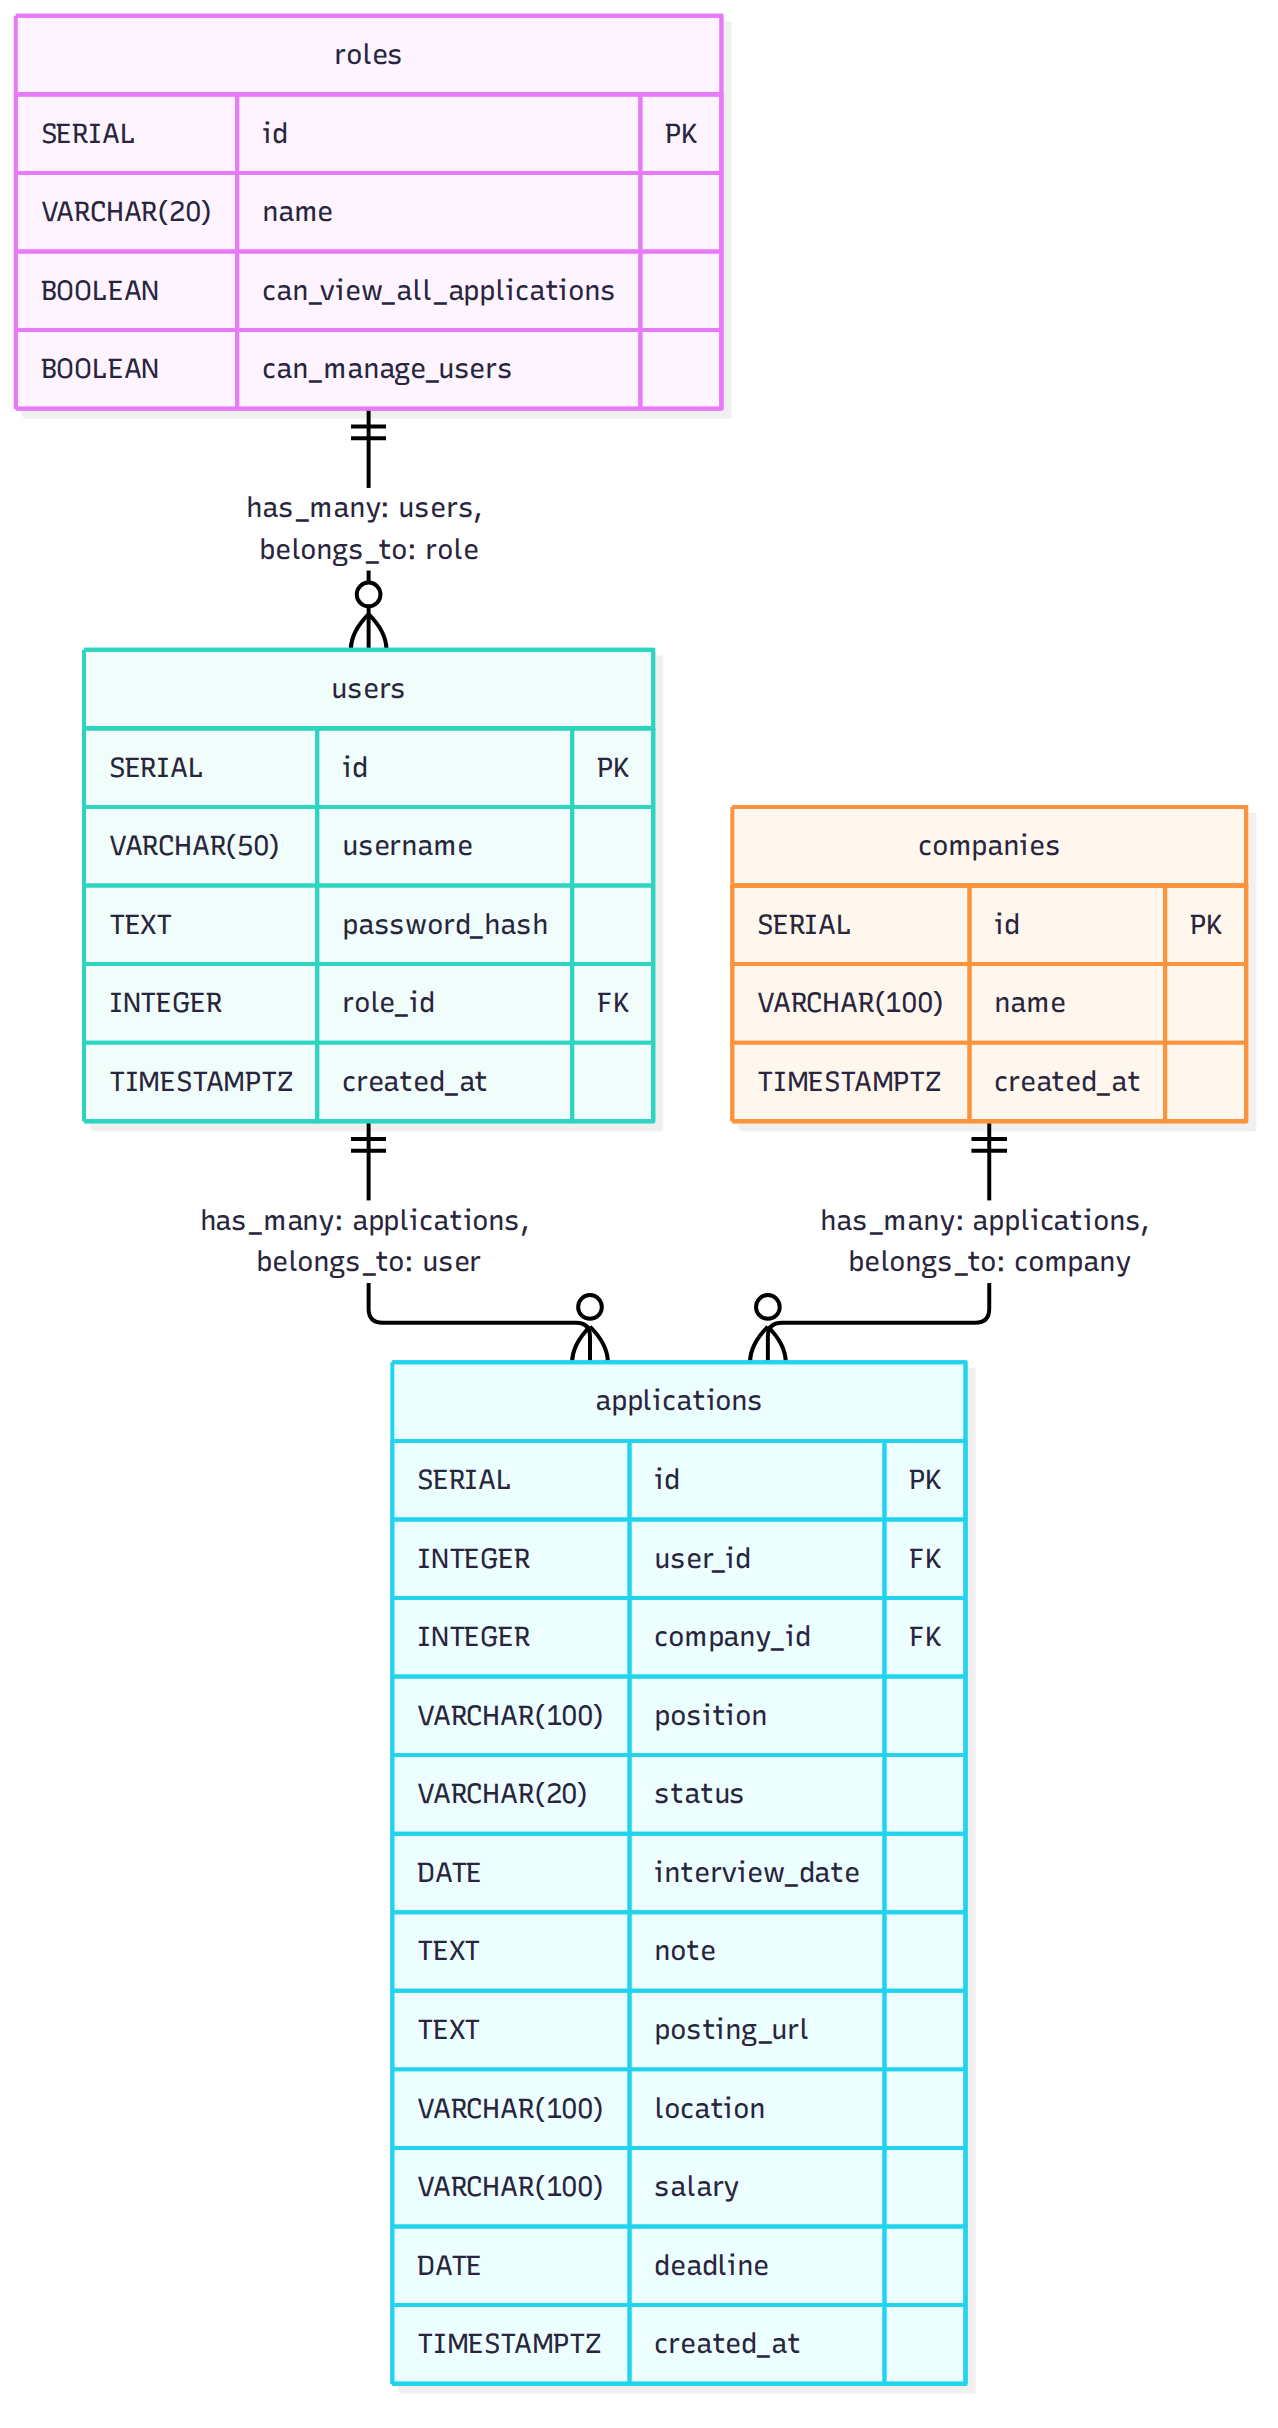
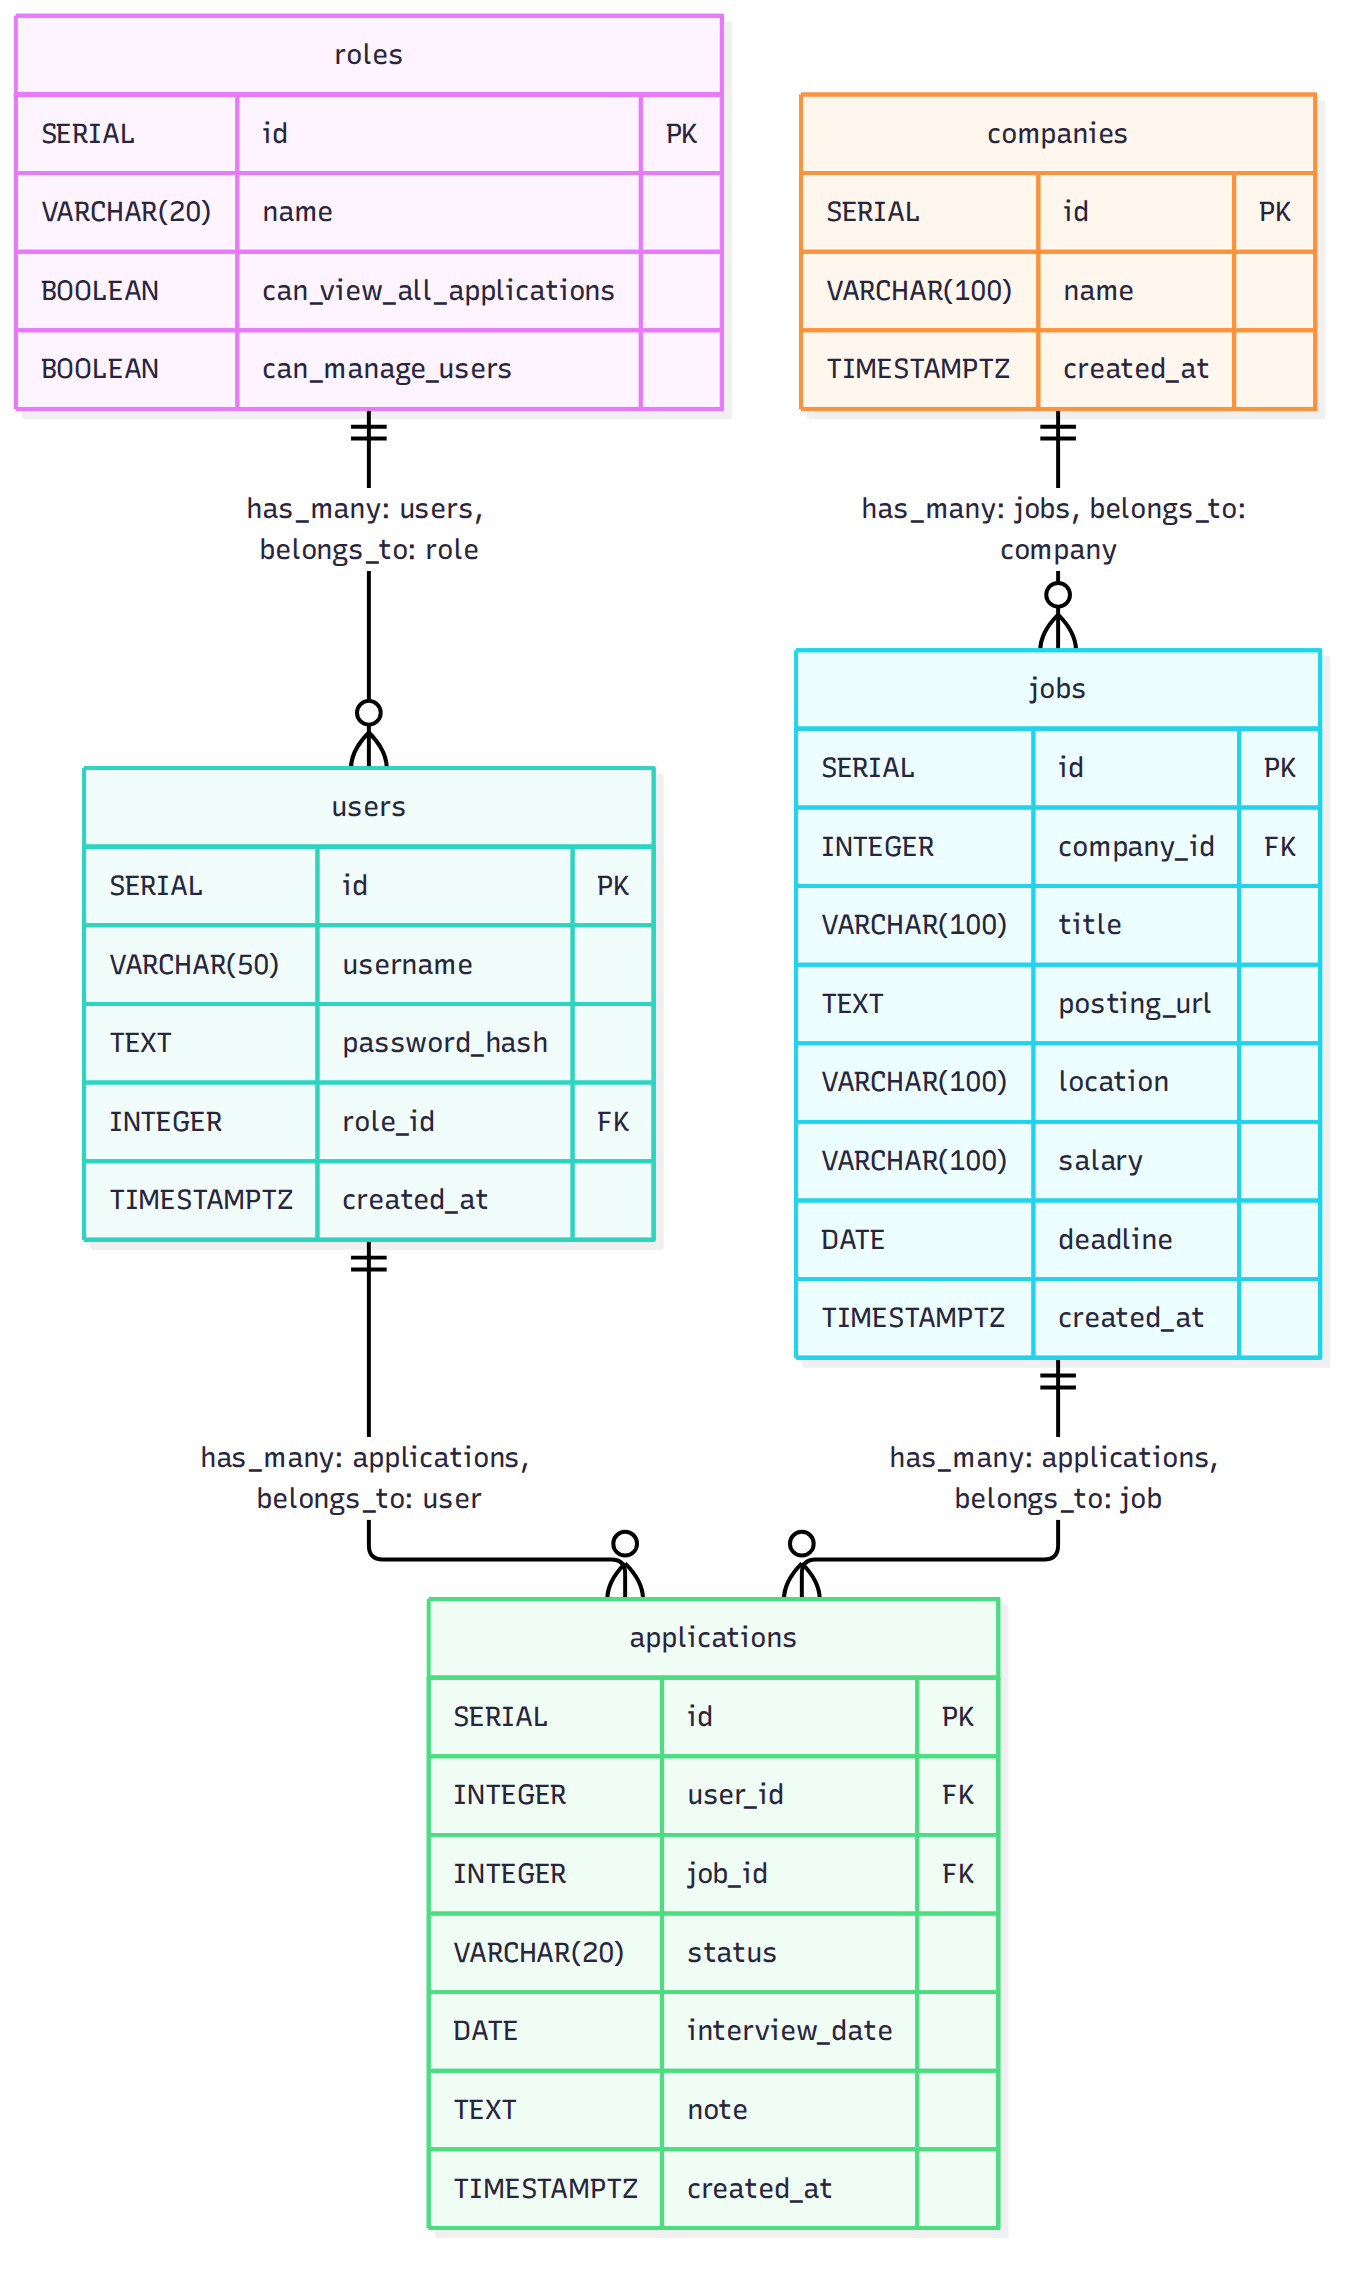
db: split jobs out of applications (m:n via applications), drop stale .js mirrors

Changed region(s): [[0.0, 0.0, 0.9765, 0.9868], [0.6408, 0.2159, 0.6714, 0.2467], [0.1526, 0.6167, 0.1831, 0.6476]]

diff --git a/migrations/20261116130124_001_init.ts b/migrations/20261116130124_001_init.ts
@@ -30,22 +30,31 @@ export const up = async (knex: Knex) => {
     t.timestamp("created_at", { useTz: true }).notNullable().defaultTo(knex.fn.now());
   });
 
-  await knex.schema.createTable("applications", (t) => {
+  await knex.schema.createTable("jobs", (t) => {
     t.increments("id").primary();
-    t.integer("user_id").notNullable().references("id").inTable("users").onDelete("CASCADE");
     t.integer("company_id").notNullable().references("id").inTable("companies");
-    t.string("position", 100).notNullable();
-    t.string("status", 20).notNullable().defaultTo("applied");
-    t.date("interview_date").nullable();
-    t.text("note").nullable();
+    t.string("title", 100).notNullable();
     t.text("posting_url").nullable();
     t.string("location", 100).nullable();
     t.string("salary", 100).nullable();
     t.date("deadline").nullable();
     t.timestamp("created_at", { useTz: true }).notNullable().defaultTo(knex.fn.now());
 
+    t.index(["company_id"], "jobs_company_id_idx");
+  });
+
+  await knex.schema.createTable("applications", (t) => {
+    t.increments("id").primary();
+    t.integer("user_id").notNullable().references("id").inTable("users").onDelete("CASCADE");
+    t.integer("job_id").notNullable().references("id").inTable("jobs").onDelete("CASCADE");
+    t.string("status", 20).notNullable().defaultTo("applied");
+    t.date("interview_date").nullable();
+    t.text("note").nullable();
+    t.timestamp("created_at", { useTz: true }).notNullable().defaultTo(knex.fn.now());
+
+    t.unique(["user_id", "job_id"], { indexName: "applications_user_job_unique" });
     t.index(["user_id"], "applications_user_id_idx");
-    t.index(["company_id"], "applications_company_id_idx");
+    t.index(["job_id"], "applications_job_id_idx");
     t.index(["status"], "applications_status_idx");
   });
 
@@ -62,6 +71,7 @@ export const up = async (knex: Knex) => {
  */
 export const down = async (knex: Knex) => {
   await knex.schema.dropTable("applications");
+  await knex.schema.dropTable("jobs");
   await knex.schema.dropTable("companies");
   await knex.schema.dropTable("users");
   await knex.schema.dropTable("roles");

diff --git a/seeds/04_applications.ts b/seeds/04_applications.ts
@@ -2,7 +2,7 @@ import type { Knex } from "knex";
 
 /**
  * Demo applications for alice only, so the ownership rule is visible: bob's
- * list stays empty until he adds his own.
+ * list stays empty until he adds his own. Each row is one (user, job) pair.
  */
 export const seed = async (knex: Knex) => {
   const alice = await knex("users").where({ username: "alice" }).first();
@@ -11,43 +11,28 @@ export const seed = async (knex: Knex) => {
   const existing = await knex("applications").where({ user_id: alice.id }).first();
   if (existing) return;
 
-  const companies = await knex("companies").select("id", "name");
-  const companyId = Object.fromEntries(companies.map((c) => [c.name, c.id]));
+  const jobs = await knex("jobs").select("id", "title");
+  const jobId = Object.fromEntries(jobs.map((j) => [j.title, j.id]));
 
   await knex("applications").insert([
     {
       user_id: alice.id,
-      company_id: companyId["Example Ltd"],
-      position: "Junior Developer",
+      job_id: jobId["Junior Developer"],
       status: "interviewing",
       interview_date: "2026-11-30",
       note: "Second round with the platform team.",
-      posting_url: "https://example.com/jobs/junior-dev",
-      location: "Hong Kong",
-      salary: "HKD 20k-25k/month",
-      deadline: "2026-12-15",
     },
     {
       user_id: alice.id,
-      company_id: companyId["Northwind Studio"],
-      position: "Frontend Developer",
+      job_id: jobId["Frontend Developer"],
       status: "applied",
       note: null,
-      posting_url: "https://northwind.example/careers/frontend",
-      location: "Remote",
-      salary: null,
-      deadline: "2026-12-01",
     },
     {
       user_id: alice.id,
-      company_id: companyId["Violet Labs"],
-      position: "Backend Intern",
+      job_id: jobId["Backend Intern"],
       status: "rejected",
       note: "Rejected after the take-home.",
-      posting_url: null,
-      location: "Hong Kong",
-      salary: null,
-      deadline: null,
     },
   ]);
 };

diff --git a/seeds/03_jobs.ts b/seeds/03_jobs.ts
@@ -1,0 +1,40 @@
+import type { Knex } from "knex";
+
+/**
+ * Demo job adverts. One row per posting, shared by every user who tracks it.
+ * Idempotent: skips when any job already exists.
+ */
+export const seed = async (knex: Knex) => {
+  const existing = await knex("jobs").first();
+  if (existing) return;
+
+  const companies = await knex("companies").select("id", "name");
+  const companyId = Object.fromEntries(companies.map((c) => [c.name, c.id]));
+
+  await knex("jobs").insert([
+    {
+      company_id: companyId["Example Ltd"],
+      title: "Junior Developer",
+      posting_url: "https://example.com/jobs/junior-dev",
+      location: "Hong Kong",
+      salary: "HKD 20k-25k/month",
+      deadline: "2026-12-15",
+    },
+    {
+      company_id: companyId["Northwind Studio"],
+      title: "Frontend Developer",
+      posting_url: "https://northwind.example/careers/frontend",
+      location: "Remote",
+      salary: null,
+      deadline: "2026-12-01",
+    },
+    {
+      company_id: companyId["Violet Labs"],
+      title: "Backend Intern",
+      posting_url: null,
+      location: "Hong Kong",
+      salary: null,
+      deadline: null,
+    },
+  ]);
+};

diff --git a/docs/erd.md b/docs/erd.md
@@ -1,18 +1,15 @@
 # ERD — JobTrack
 
 The executable source is [`draft/erd.sql`](../draft/erd.sql); this file is the
-readable version. GitHub renders the block below as a diagram.
-
-![JobTrack ERD](../draft/JobTrack_ERD_P3.png)
-
-*`draft/JobTrack_ERD_P3.png` — rendered from `draft/erd.sql` by `npm run erd`
-(4 tables, 3 relations).*
+readable version. GitHub renders the block below as a diagram, and
+`npm run erd` renders the same schema to `draft/JobTrack_ERD_P3.png`.
 
 ```mermaid
 erDiagram
+    COMPANIES ||--o{ JOBS : "posts"
+    JOBS ||--o{ APPLICATIONS : "tracked by"
+    USERS ||--o{ APPLICATIONS : "applies"
     ROLES ||--o{ USERS : "assigned to"
-    USERS ||--o{ APPLICATIONS : "owns"
-    COMPANIES ||--o{ APPLICATIONS : "receives"
 
     ROLES {
         serial id PK
@@ -31,25 +28,36 @@ erDiagram
 
     COMPANIES {
         serial id PK
-        varchar name UK "find-or-create on submit"
+        varchar name UK "find-or-create on job creation"
+        timestamptz created_at
+    }
+
+    JOBS {
+        serial id PK
+        int company_id FK
+        varchar title
+        text posting_url "nullable — original advert"
+        varchar location "nullable — city or remote"
+        varchar salary "nullable — free text, as advertised"
+        date deadline "nullable — submission deadline"
         timestamptz created_at
     }
 
     APPLICATIONS {
         serial id PK
         int user_id FK "ON DELETE CASCADE"
-        int company_id FK
-        varchar position
+        int job_id FK "ON DELETE CASCADE"
         varchar status "applied | interviewing | offer | rejected"
         date interview_date "nullable"
         text note "nullable"
-        text posting_url "nullable — original job advert"
-        varchar(100) location "nullable — city or remote"
-        varchar(100) salary "nullable — free text, as advertised"
-        date deadline "nullable — submission deadline"
         timestamptz created_at
     }
 ```
+
+`applications` is the **join table** between `users` and `jobs`: one row per
+(user, job) pair, `UNIQUE (user_id, job_id)`. A posting is stored once in `jobs`
+and every user tracking it points at that row — two people applying to the same
+advert share its URL, salary and deadline but keep their own status and notes.
 
 ## Rules the diagram doesn't show
 
@@ -59,12 +67,15 @@ erDiagram
   nobody edits or deletes an application they don't own — not even admin.
 - **Reads are permission-based.** `can_view_all_applications` controls whether
   the list query filters on `user_id`.
-- **Companies are shared.** `name` is unique, so adding an application finds or
-  creates its company instead of inserting a duplicate.
-- **Posting details live on the application**, not in a separate Posting entity.
-  A personal tracker has no need to share one posting row across users; each user
-  keeps their own copy of the advert's URL, location, salary and deadline.
-- **Indexes** on `applications.user_id`, `.company_id`, and `.status` back the
-  filtered list and the `GROUP BY status` statistics.
+- **One application per posting per user.** The unique pair keeps a second
+  "apply" from silently duplicating the row; deleting the application leaves the
+  job (and other users' applications) intact.
+- **Companies are shared.** `name` is unique, so creating a job finds or creates
+  its company instead of inserting a duplicate.
+- **Jobs are shared, applications are personal.** Editing an advert's salary in
+  `jobs` changes it for everyone tracking that posting; per-user state lives in
+  `applications` only.
+- **Indexes** on `jobs.company_id` and `applications.user_id`, `.job_id`,
+  `.status` back the filtered list, the join and the `GROUP BY status` counts.
 - **Seed rule:** `admin` gets both permissions, `user` gets neither, and exactly
   one `admin` account exists by default.

diff --git a/README.md b/README.md
@@ -74,7 +74,8 @@ the values above are local fallbacks. Change them before exposing the app.
 - `docs/erd.md` — readable ERD (Mermaid), rendered by GitHub, carries the rules the diagram can't show
 - `draft/erd.generated.mmd` / `draft/JobTrack_ERD_P3.png` — generated by `npm run erd` from `erd.sql`
 - `draft/` — the graded artifacts (P1 wireframe, P2 ERD)
-- `migrations/`, `seeds/` — plain ESM `.js` (`"type": "module"`), loaded by the Knex CLI
+- `migrations/`, `seeds/` — TypeScript, loaded by the Knex CLI through `tsx`
+  (`extension: "ts"` in `knexfile.js`); no compiled JS is checked in
 - `src/` — application code
 - `CONTEXT.md` — domain glossary; read this before naming anything
 - `docs/scope.md` — assessment map and syllabus coverage

diff --git a/docs/wireframe-spec.md b/docs/wireframe-spec.md
@@ -144,8 +144,10 @@ with a 45% ink scrim:
 
 Desktop uses a centred card — 720×660 for the form, 420×210 for the confirm.
 Mobile uses a bottom sheet for the form and a centred card for the confirm.
-Form fields match the data model: company, position, status, interview date,
-location, deadline, salary, posting URL, note; company and position are required.
+Form fields split across the two tables it now models: the advert half (company,
+title, posting URL, location, salary, deadline) writes to `jobs`, the personal
+half (status, interview date, note) writes to `applications`; company and title
+are required.
 
 ## Export checklist
 
